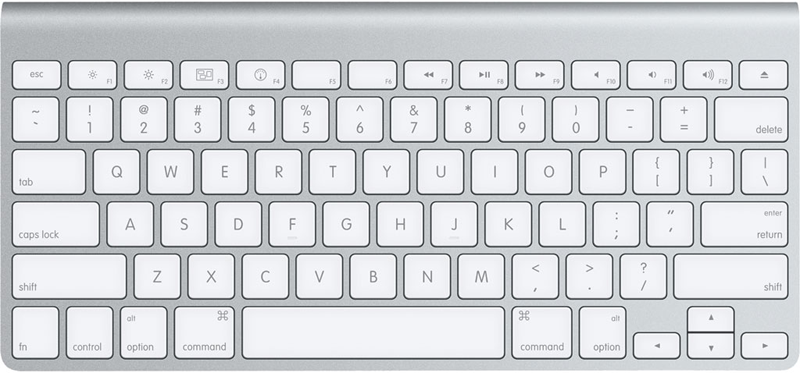
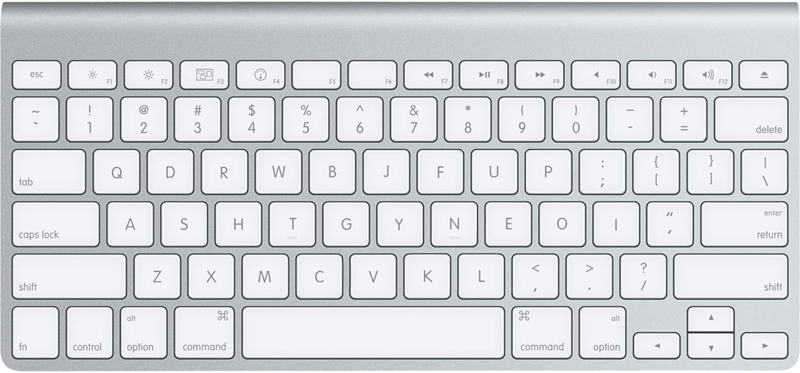
added WORKMAN layout

diff --git a/app/keyboard-layouts.js b/app/keyboard-layouts.js
@@ -353,6 +353,77 @@ app.LAYOUTS = {
         "/": [644, 275],
         "?": [644, 275, 70, 275],
         " ": [500, 300]
+    },
+    WORKMAN: {
+        "~": [35, 120, 70, 275],
+        "`": [35, 120],
+        "1": [90, 120],
+        "!": [90, 120, 70, 275],
+        "2": [144, 120],
+        "@": [144, 120, 70, 275],
+        "3": [198, 120],
+        "#": [198, 120, 70, 275],
+        "4": [253, 120],
+        "$": [253, 120, 70, 275],
+        "5": [307, 120],
+        "%": [307, 120, 70, 275],
+        "6": [361, 120],
+        "^": [361, 120, 70, 275],
+        "7": [415, 120],
+        "&": [415, 120, 70, 275],
+        "8": [469, 120],
+        "*": [469, 120, 70, 275],
+        "9": [524, 120],
+        "(": [524, 120, 70, 275],
+        "0": [579, 120],
+        ")": [579, 120, 70, 275],
+        "-": [630, 120],
+        "_": [630, 120, 70, 275],
+        "+": [685, 120, 70, 275],
+        "=": [685, 120],
+        "Q": [115, 174],
+        "D": [169, 174],
+        "R": [224, 174],
+        "W": [278, 174],
+        "B": [332, 174],
+        "J": [386, 174],
+        "F": [440, 174],
+        "U": [494, 174],
+        "P": [548, 174],
+        ":": [602, 174, 70, 275],
+        ";": [602, 174],
+        "[": [656, 174],
+        "{": [656, 174, 70, 275],
+        "]": [710, 174],
+        "}": [710, 174, 70, 275],
+        "\\": [764, 174],
+        "|": [764, 174, 70, 275],
+        "A": [130, 225],
+        "S": [184, 225],
+        "H": [238, 225],
+        "T": [292, 225],
+        "G": [346, 225],
+        "Y": [400, 225],
+        "N": [454, 225],
+        "E": [508, 225],
+        "O": [562, 225],
+        "I": [616, 225],
+        "'": [670, 225],
+        "\"": [670, 225, 70, 275],
+        "Z": [158, 275],
+        "X": [212, 275],
+        "M": [266, 275],
+        "C": [320, 275],
+        "V": [374, 275],
+        "K": [428, 275],
+        "L": [482, 275],
+        ",": [536, 275],
+        "<": [536, 275, 70, 275],
+        ".": [590, 275],
+        ">": [590, 275, 70, 275],
+        "/": [644, 275],
+        "?": [644, 275, 70, 275],
+        " ": [500, 300]
     }
 },
 app.EXCLUDES = [" "],

diff --git a/app/index.html b/app/index.html
@@ -57,6 +57,7 @@
                     <option value="DVORAK_PROGRAMMER">DVORAK Programmer Layout</option>
                     <option value="COLEMAK">COLEMAK Layout</option>
                     <option value="CARPALX_QFMLWY">Carpalx QFMLWY</option>
+                    <option value="WORKMAN">Workman Layout</option>
                 </select>
                 <div id="apply" class="button">
                     Apply customizations
